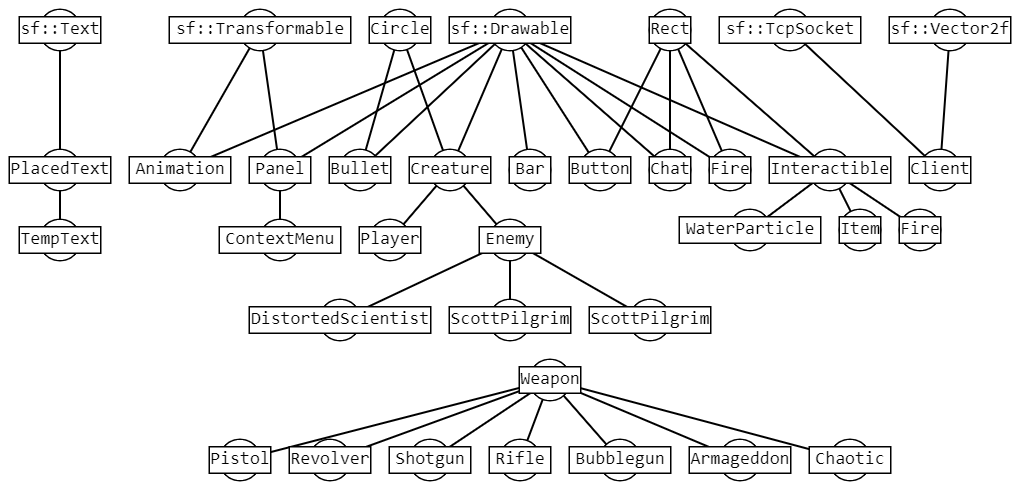
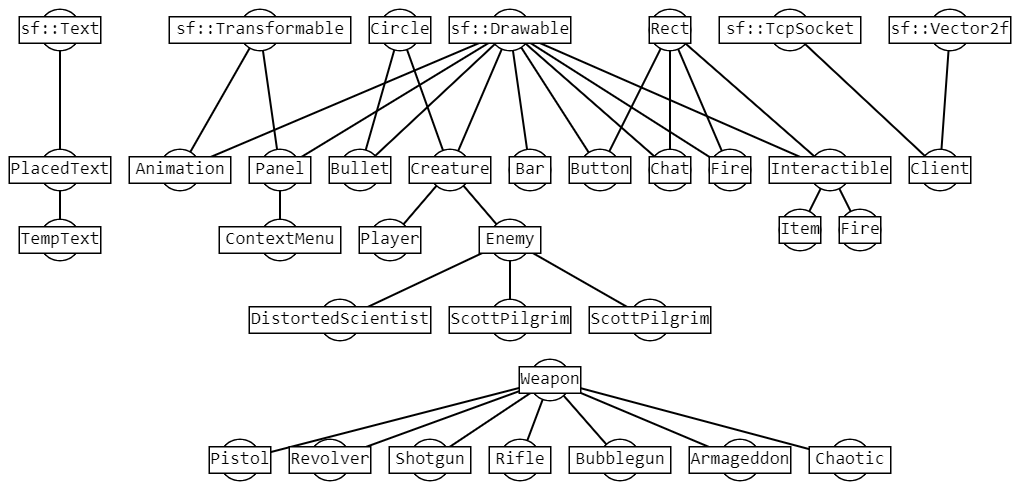
доделал шланг. убрал воду как объект, потому что теперь это Bullet

Changed region(s): [[0.6686, 0.398, 0.9422, 0.5204], [0.851, 0.398, 0.8814, 0.4286], [0.8206, 0.3673, 0.851, 0.398]]

diff --git a/Headers/GameEngine.h b/Headers/GameEngine.h
@@ -7,7 +7,6 @@
 #include "effect.h"
 #include "fire.h"
 #include "tempText.h"
-#include "waterPart.h"
 
 //////////////////////////////////////////////////////////// Settings of the game
 bool IsDrawMinimap       = true;
@@ -29,7 +28,6 @@ std::vector<Item*> PickupStuff;
 //////////////////////////////////////////////////////////// DrawableStuff
 sf::Sprite WallRect, FLoorTileSprite;
 std::vector<sf::Texture> FloorTextureRects;
-sf::CircleShape circleShape;
 std::vector<TempText*> TempTextsOnScreen, TempTextsOnGround;
 Bar<float> EnemyHealthBar;
 
@@ -100,9 +98,6 @@ std::vector<Interactable*> listOfBox,
 //////////////////////////////////////////////////////////// Fire
 std::vector<Fire*> FireSet;
 
-//////////////////////////////////////////////////////////// Water Particles
-std::vector<WaterParticle*> WPs;
-
 //////////////////////////////////////////////////////////// Locations
 Location* CurLocation = nullptr;
 Location LabyrinthLocation, WaitingRoomLoaction, MainMenuLocation;
@@ -137,7 +132,7 @@ std::vector<Weapon*> weapons = {
     &shotgun,
     &revolver,
     &rifle,
-    &bubblegun,
+    &bubblegun
 };
 Scale<int> CurWeapon{0, 4, 0};
 
@@ -174,7 +169,6 @@ void setArtifact(Interactable*&);
 template <typename T> void clearVectorOfPointer(std::vector<T>&);
 bool firePropagationAllowed(sf::Vector2i, sf::Vector2i);
 void fireUpdate();
-// void wpUpdate();
 
 //////////////////////////////////////////////////////////// Server-Client functions
 void ClientConnect();
@@ -231,6 +225,9 @@ Button EscapeButton("Exit", [](){
     clearVectorOfPointer(listOfArtifact);
     clearVectorOfPointer(PickupStuff);
     player.CurWeapon->lock = true;
+    DeleteFromVector(weapons, (Weapon*)&fireHose);
+    CurWeapon -= 1;
+    CurWeapon.top -= 1;
     LoadMainMenu();
 });
 
@@ -266,11 +263,7 @@ void draw() {
     }
 
     for (int i = 0; i < Bullets.size(); i++) {
-        circleShape.setFillColor(Bullets[i].color);
-        circleShape.setRadius(Bullets[i].Radius);
-        circleShape.setPosition(Bullets[i].getPosition());
-        circleShape.setOrigin(Bullets[i].Radius, Bullets[i].Radius);
-        window.draw(circleShape);
+        window.draw(Bullets[i]);
     }
 
     for (size_t i = 0; i < TempTextsOnGround.size(); i++) {
@@ -677,8 +670,6 @@ void LoadMainMenu() {
     PickupStuff.push_back(fireHosePickup);
     DrawableStuff.push_back(PickupStuff[1]);
     PickupStuff[1]->dropTo(player.getPosition() + sf::Vector2f(400, 300));
-
-    fireHose.AmountOfAmmunition = 0;
 
     listOfBox.push_back(new Interactable());
     setBox(listOfBox[0]);
@@ -1102,14 +1093,10 @@ bool useItem(ItemID::Type id) {
             AllEffects.push_back(new Effect(&player, Effects::Heal, 60.f, sf::seconds(1.f)));
             return true;
         case ItemID::fireHose:
-        // NOT FINAL. IN TESTING
+            fireHose.AmountOfAmmunition = 100;
             weapons.push_back(&fireHose);
-            player.ChangeWeapon(weapons[weapons.size() - 1]);
             CurWeapon.top += 1;
-            CurWeapon += CurWeapon.fromTop();
-            weapons[weapons.size() - 1]->AmountOfAmmunition = 100;
             return true;
-        // NOT FINAL. IN TESTING
         default:
             return false;
     }
@@ -1155,8 +1142,7 @@ void updateBullets() {
                 player.getDamage(Bullets[i].damage);
                 Bullets[i].penetration--;
             }
-            // NOT FINAL. IN TESTING
-            if (Bullets[i].type == Bullet::Type::WaterParticle) {
+            if (Bullets[i].type == Bullet::WaterParticle) {
                 for (int j = 0; j < FireSet.size(); j++) {
                     if (FireSet[j]->intersect(Bullets[i])) {
                         DeleteFromVector(DrawableStuff, static_cast<sf::Drawable*>(FireSet[j]));
@@ -1166,7 +1152,6 @@ void updateBullets() {
                         break;
                     }
                 }
-                // NOT FINAL. IN TESTING
             } else {
                 for (Enemy*& enemy: Enemies) {
                     if (!faction::friends(Bullets[i].fromWho, enemy->faction) && enemy->intersect(Bullets[i])) {
@@ -1237,8 +1222,6 @@ void MainLoop() {
 
         fireUpdate();
 
-        // wpUpdate();
-
         player.UpdateState();
         if (screen == screens::Dungeon) {
             if (Musics::Fight1.getDuration() - Musics::Fight1.getPlayingOffset() < sf::seconds(0.3f)) {
@@ -1277,13 +1260,12 @@ void MainLoop() {
 
             if (player.CurWeapon != nullptr) {
                 player.CurWeapon->Shoot(player, window.mapPixelToCoords(sf::Mouse::getPosition()), player.faction);
-            }
-            if (weapons[CurWeapon.cur] == &fireHose && weapons[CurWeapon.cur]->AmountOfAmmunition.toBottom() == 0) {
-                weapons.erase(weapons.begin() + CurWeapon.cur);
-                fireHose.lock = true;
-                CurWeapon -= 1;
-                player.ChangeWeapon(weapons[CurWeapon.cur]);
-                CurWeapon.top -= 1;
+                if (player.CurWeapon == &fireHose && player.CurWeapon->AmountOfAmmunition.toBottom() == 0) {
+                    DeleteFromVector(weapons, (Weapon*)&fireHose);
+                    CurWeapon -= 1;
+                    CurWeapon.top -= 1;
+                    player.ChangeWeapon(weapons[CurWeapon.cur]);
+                }
             }
 
             if (wasBulletsSize < Bullets.size() && (HostFuncRun || ClientFuncRun)) {
@@ -1336,14 +1318,6 @@ void MainLoop() {
         for (int i = 0; i < FireSet.size(); i++) {
             if (FireSet[i]->intersect(player))
                 AllEffects.push_back(new Effect(&player, Effects::Damage, 0.1f, sf::seconds(2.f)));
-            // for (WaterParticle* &wp: WPs) {
-            //     if (FireSet[i]->intersect(*wp)) {
-            //         DeleteFromVector(DrawableStuff, static_cast<sf::Drawable*>(FireSet[i]));
-            //         delete FireSet[i];
-            //         FireSet.erase(FireSet.begin() + i--);
-            //         break;
-            //     }
-            // }
         }
         processEffects();
 
@@ -1529,12 +1503,6 @@ void fireUpdate() {
         }
     }
 }
-
-// void wpUpdate() {
-//     for (WaterParticle* &wp: WPs) {
-//         wp->move(CurLocation);
-//     }
-// }
 
 //////////////////////////////////////////////////////////// Server-Client functions
 void ClientConnect() {

diff --git a/Headers/bullet.h b/Headers/bullet.h
@@ -6,12 +6,14 @@
 #define COMMON_BULLET_RADIUS 7
 #define COMMON_BULLET_PENETRATION 0
 
+sf::CircleShape circleShape;
+
 ////////////////////////////////////////////////////////////
 // Class
 ////////////////////////////////////////////////////////////
 
 #pragma pack(push, 1)
-struct Bullet : public Circle {
+struct Bullet : public Circle, public sf::Drawable {
     enum Type : sf::Uint8 {
         Common,
         Bubble,
@@ -19,7 +21,7 @@ struct Bullet : public Circle {
     };
     Bullet::Type type;
 
-    Animation* animation;
+    Animation* animation = nullptr;
 
     bool explode = false;
     bool todel = false;
@@ -28,21 +30,21 @@ struct Bullet : public Circle {
     sf::Vector2f Velocity;
     Scale<float> ExplosionRadius = {1, 12, 1};
     faction::Type fromWho;
-    sf::Clock* localClock;
+    sf::Clock* localClock = nullptr;
     sf::Time timer;
     sf::Color color;
 
     Bullet() {}
-    Bullet(faction::Type f, sf::Vector2f pos, sf::Vector2f v, float dmg, int penetr = COMMON_BULLET_PENETRATION, Bullet::Type t = Bullet::Common,
-           sf::Time time = sf::Time::Zero, Animation* anim = nullptr) {
-        fromWho = f;
+    Bullet(faction::Type faction, sf::Vector2f pos, sf::Vector2f velocity, float dmg, int penetr = COMMON_BULLET_PENETRATION,
+           Bullet::Type type = Bullet::Common, sf::Time time = sf::Time::Zero, Animation* anim = nullptr) {
+        fromWho = faction;
         PosX = pos.x; PosY = pos.y;
-        Velocity = v;
+        Velocity = velocity;
         penetration = penetr;
         damage = dmg;
         timer = time;
-        type = t;
-        switch (t) {
+        this->type = type;
+        switch (type) {
             case Bullet::Common:
                 Radius = COMMON_BULLET_RADIUS;
                 color = sf::Color(rand() % 256, rand() % 256, rand() % 256);
@@ -60,8 +62,12 @@ struct Bullet : public Circle {
         }
         localClock = new sf::Clock();
         
-        if (anim != nullptr)
-            this->animation = anim;     //  DOESN'T WORK FOR NOW. BULLET NEEDS A DRAW FUNCTION
+        if (anim != nullptr) {
+            animation = anim;
+            animation->setSize({Radius * 2.f, Radius * 2.f});
+            animation->setOrigin(animation->getLocalSize() / 2.f);
+            animation->play();
+        }
     }
 
     void move(Location* location) {
@@ -96,6 +102,18 @@ struct Bullet : public Circle {
             case Bullet::WaterParticle:
                 Circle::move(Velocity);
                 break;
+        }
+    }
+    void draw(sf::RenderTarget& target, sf::RenderStates states = sf::RenderStates::Default) const {
+        if (animation != nullptr) {
+            animation->setPosition(getPosition());
+            target.draw(*animation, states);
+        } else {
+            circleShape.setFillColor(color);
+            circleShape.setRadius(Radius);
+            circleShape.setPosition(getPosition());
+            circleShape.setOrigin(Radius, Radius);
+            target.draw(circleShape);
         }
     }
 };

diff --git a/Headers/weapon.h b/Headers/weapon.h
@@ -19,7 +19,7 @@ public:
     float scatter; // at degree
     bool lock; // Bullets is like a stream and "lock" is blocking it stream
 
-    Weapon() {};
+    Weapon() {}
     Weapon(sf::String name, int MaxAmmo, float ManaCost, float FireRate, float dmg) {
         Name = name;
         AmountOfAmmunition = {0, MaxAmmo, MaxAmmo};
@@ -35,7 +35,7 @@ public:
             lock = false;
         if (event.type == sf::Event::MouseButtonReleased && event.mouseButton.button == sf::Mouse::Left)
             lock = true;
-    };
+    }
 
     virtual void Shoot(Circle& shooter, sf::Vector2f direction, faction::Type f) {
         if (AmountOfAmmunition.toBottom() == 0) { lock = true; return; }
@@ -55,7 +55,7 @@ public:
         int x = std::min(int(Mana.cur / ManaCost), AmountOfAmmunition.fromTop());
         Mana -= ManaCost * x;
         AmountOfAmmunition += x;
-    };
+    }
 };
 #pragma pack(pop)
 ////////////////////////////////////////////////////////////
@@ -111,7 +111,7 @@ public:
     void Update(sf::Event& event) {
         if (event.type == sf::Event::MouseButtonPressed && event.mouseButton.button == sf::Mouse::Left)
             lock = false;
-    };
+    }
     void Shoot(Circle& shooter, sf::Vector2f direction, faction::Type f) {
         if (AmountOfAmmunition.toBottom() == 0) { lock = true; return; }
         if (lock || TimeFromLastShot->getElapsedTime() <= FireRate) return;
@@ -140,7 +140,7 @@ public:
             lock = false;
         } if (event.type == sf::Event::MouseButtonReleased && event.mouseButton.button == sf::Mouse::Left)
             lock = true;
-    };
+    }
     void Shoot(Circle& shooter, sf::Vector2f direction, faction::Type f) {
         if (AmountOfAmmunition.toBottom() == 0) { lock = true; return; }
         if (lock || TimeFromLastShot->getElapsedTime() <= FireRate) return;
@@ -174,7 +174,7 @@ public:
 
 class FireHose : public Weapon {
 public:
-    FireHose() : Weapon("Fire hose", 100, 1000000, 1.f / 10, 0) { BulletVelocity = 20; }
+    FireHose() : Weapon("Fire hose", 100, 0, 1.f / 10, 0) { BulletVelocity = 20; }
     void Shoot(Circle& shooter, sf::Vector2f direction, faction::Type f) {
         if (AmountOfAmmunition.toBottom() == 0) { lock = true; return; }
         if (lock || TimeFromLastShot->getElapsedTime() <= FireRate) return;
@@ -189,4 +189,5 @@ public:
         AmountOfAmmunition -= 1;
         TimeFromLastShot->restart();
     }
+    void Reload(Scale<float>& Mana) {}
 };

diff --git a/Headers/creature.h b/Headers/creature.h
@@ -43,7 +43,7 @@ public:
         localClock = new sf::Clock();
         animation = nullptr;
         dropInventory = true;
-    };
+    }
 
     virtual void draw(sf::RenderTarget& target, sf::RenderStates states = sf::RenderStates::Default) const {
         if (animation != nullptr) {
@@ -52,7 +52,7 @@ public:
         }
         Name.setPosition(PosX - Name.Width / 2.f, PosY - Radius - Name.Height);
         target.draw(Name, states);
-    };
+    }
 
     virtual void getDamage(float dmg) { Health -= dmg; }
 
@@ -74,7 +74,7 @@ public:
         PosX += Velocity.x * ElapsedTimeAsSecond;
         PosY += Velocity.y * ElapsedTimeAsSecond;
         LastMoveCheck = localClock->getElapsedTime();
-    };
+    }
 
     virtual void UpdateState() {
         Mana += ManaRecovery * (localClock->getElapsedTime() - LastStateCheck).asSeconds();
@@ -90,7 +90,7 @@ public:
         animation->setSize({Radius * 2.f, Radius * 2.f});
         animation->setOrigin(animation->getLocalSize() / 2.f);
         animation->play();
-    };
+    }
 
     void ChangeWeapon(Weapon* to) { CurWeapon = to; }
 
